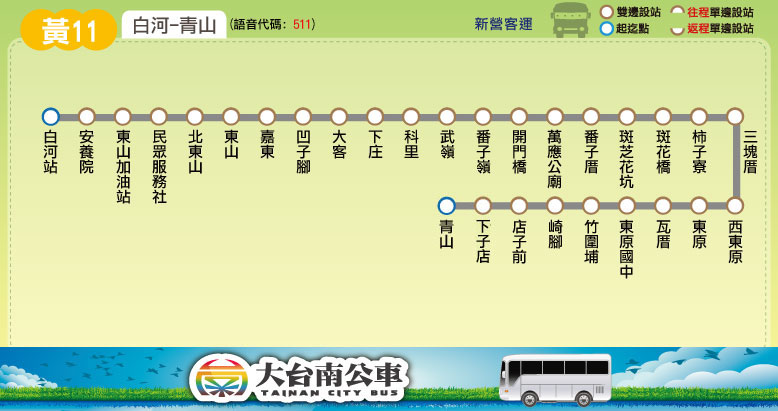
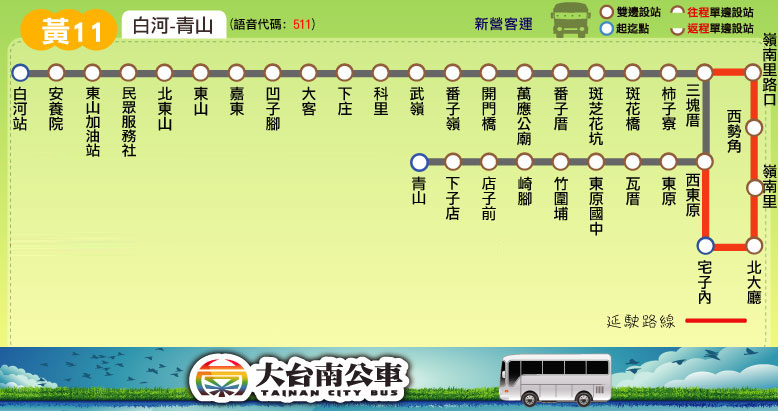
更新時刻表：棕1、黃3、黃11(繞駛嶺南里)

diff --git a/route/fare_and_time/yellow_11.js b/route/fare_and_time/yellow_11.js
@@ -6,12 +6,11 @@ yellow_11_interval_stop = [
 ["武嶺"], // 武嶺
 ["番子嶺"], // 番子嶺
 ["開門橋","萬應公廟","番子厝","斑芝花坑","斑花橋","柿子寮"], // 斑芝花坑
-["三塊厝","西東原","東原"], // 東原
+["三塊厝","嶺南里路口","西勢角","嶺南里","北大廳","宅子內","西東原","東原"], // 東原
 ["瓦厝","東原國中","竹圍埔"], // 瓦厝
 ["崎腳"], // 崎腳
 ["店子前","下子店","青山"] // 青山
 ];
-yellow_11_stop_time_consume = [0,1,2,3,4,5,7,8,8,9,9,10,11,14,14,15,15,16,17,18,20,22,23,24,24,25,26,27];
 yellow_11_fare = [
 [26],
 [26,26],
@@ -27,8 +26,11 @@ yellow_11_fare = [
 // format = [time at the start stop] or
 // [time, other] or
 // [time, start_stop, end_stop, other]
-yellow_11_main_stop_name = ["白河","東山","斑花橋","東原","青山"];
-yellow_11_main_stop_time_consume = [0, 5, 16, 22, 27];
-yellow_11_important_stop = [0, 1, 4]; // 白河, 東山, 青山
-yellow_11_time_go = [["06:00"],["07:20"],["09:10"],["10:40"],["12:00"],["13:30"],["15:00"],["16:20"],["17:15"],["18:15"]];
-yellow_11_time_return = [["06:35"],["07:50"],["09:40"],["11:10"],["12:30"],["14:00"],["15:30"],["16:50"],["17:50"],["18:50"]];
+yellow_11_main_stop_name = ["白河","東山","嶺南里","宅子內","斑花橋","東原","青山"];
+yellow_11_main_stop_time_consume = [0, 5, 25, 27, 16, 22, 27];
+yellow_11_important_stop = [0, 1, 3, 6]; // 白河, 東山, 宅子內, 青山
+var start_stop = 0; // 白河
+var stop_1 = 2; // 嶺南里
+var stop_2 = 3; // 宅子內
+yellow_11_time_go = [["06:00",[stop_1,stop_2]],["06:15",start_stop,stop_2],["07:20",[stop_1,stop_2]],["09:10",[stop_1,stop_2]],["10:40",[stop_1,stop_2]],["11:40",[[stop_2+1,13]]],["13:30",[stop_1,stop_2]],["15:00",[stop_1,stop_2]],["16:20",[stop_1,stop_2]],["17:15",[stop_1,stop_2]],["17:30",start_stop,stop_2],["18:15",[stop_1,stop_2]]];
+yellow_11_time_return = [["06:35",[stop_1,stop_2]],["06:45",stop_2,start_stop],["07:50",[stop_1,stop_2]],["09:40",[stop_1,stop_2]],["11:10",[stop_1,stop_2]],["12:25",[[stop_2,13]]],["14:00",[stop_1,stop_2]],["15:30",[stop_1,stop_2]],["16:50",[stop_1,stop_2]],["17:50",[stop_1,stop_2]],["18:00",stop_2,start_stop],["18:50",[stop_1,stop_2]]];

diff --git a/route/fare_and_time/yellow_3.js b/route/fare_and_time/yellow_3.js
@@ -41,5 +41,5 @@ yellow_3_main_stop_time_consume = [0, 8, 10, 17, 25, 30, 38, 44];
 yellow_3_important_stop = [0, 2, 6, 7]; // 新營, 柳營火車站, 果毅後廟前, 德元埤
 var start_stop = 0; // 新營
 var end_stop = 6; // 果毅後廟前
-yellow_3_time_go = [["05:50",start_stop,end_stop,[[1,-2]]],["12:20"],["14:35"],["17:15",start_stop,end_stop,[[1,4,2,1,3,4,4,5,5,1]]]];
-yellow_3_time_return = [["06:30",end_stop,start_stop,[[3,4,1,2,0,4]]],["13:10"],["15:25"],["18:15",end_stop,start_stop,[[0,2]]]];
+yellow_3_time_go = [["05:50",start_stop,end_stop,[[1,-2]]],["09:20"],["12:20"],["14:35"],["17:15",start_stop,end_stop,[[1,4,2,1,3,4,4,5,5,1]]]];
+yellow_3_time_return = [["06:30",end_stop,start_stop,[[3,4,1,2,0,4]]],["10:10"],["13:10"],["15:25"],["18:15",end_stop,start_stop,[[0,2]]]];

diff --git a/route/fare_and_time/brown_1.js b/route/fare_and_time/brown_1.js
@@ -35,5 +35,5 @@ brown_1_fare = [
 brown_1_main_stop_name = ["新營","統聯客運","鹽水","頑皮世界","南鯤鯓","雙春"];
 brown_1_main_stop_time_consume = [0, 8, 18, 35, 51, 55];
 brown_1_important_stop = [0, 2, 4, 5]; // 新營, 鹽水, 南鯤鯓, 雙春
-brown_1_time_go = [["09:45"],["14:25"],["17:40"]];
-brown_1_time_return = [["06:00"],["10:40"],["15:20"]];
+brown_1_time_go = [["09:45"],["11:45"],["14:25"],["17:40"]];
+brown_1_time_return = [["06:00"],["10:40"],["12:40"],["15:20"]];
